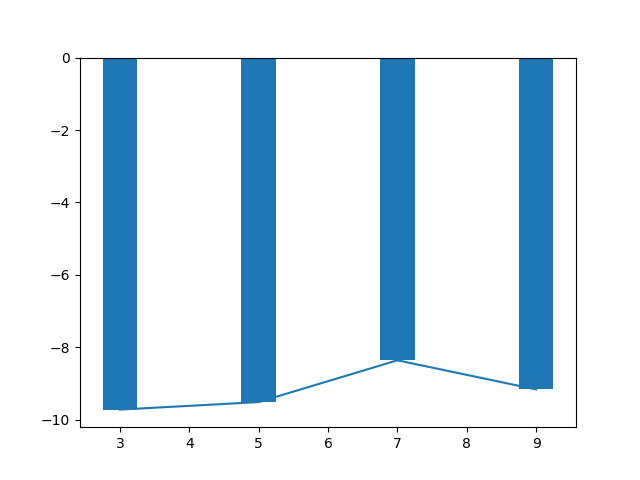
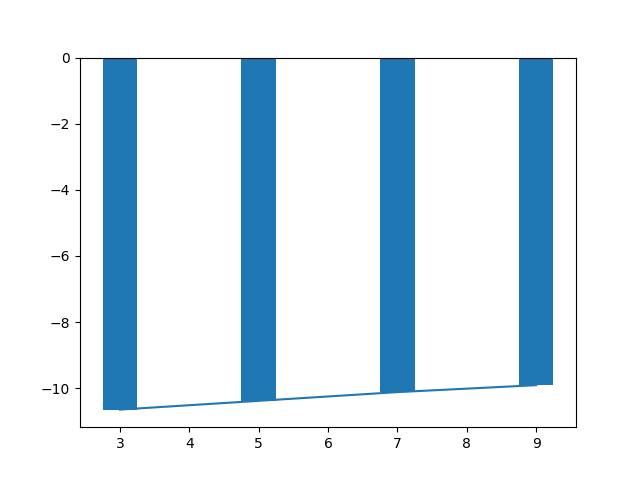
Solving redrawing on graph

diff --git a/hello.py b/hello.py
@@ -1,11 +1,21 @@
 # -*- coding: utf-8 -*-
 
-from flask import Flask, render_template, request, redirect, flash, url_for, session
+from flask import Flask, render_template, request, redirect, flash, url_for, session, send_file
+from wtforms import validators, Form, StringField
 # from flaskext.mysql import MySQL
-import csv, math, io, pandas
+import csv, math, io, pandas, numpy, base64             
+import matplotlib.pyplot as plt #Graph
+import plotly.plotly as py      #Graph
+from io import BytesIO          #Graph
 
-import json
+
 #from werkzeug.utils import secure_filename
+
+# Global vaiable to be used in graph
+pred3year = 0
+pred5year = 0
+pred7year = 0
+pred9year = 0
 
 diabeteList1 = list()
 diabeteList2 = list()
@@ -51,6 +61,37 @@ csvColumn = ['features','yearThree','yearFive','yearSeven','yearNine']
 # mysql.init_app(app)
 
 
+
+# validation check (유효성 검사)
+class MeasureForm(Form) :
+	BMI=StringField('BMI', [validators.Length(min=1)])
+	BP_HIGH=StringField('BP_HIGH', [validators.Length(min=1)])
+	BP_LWST=StringField('BP_LWST', [validators.Length(min=1)])
+	BLDS=StringField('BLDS', [validators.Length(min=1)])
+	TOT_CHOLE=StringField('TOT_CHOLE', [validators.Length(min=1)])
+	HMG=StringField('HMG', [validators.Length(min=1)])
+	SGPT_ALT=StringField('SGPT_ALT', [validators.Length(min=1)])
+	SGOT_AST=StringField('SGOT_AST', [validators.Length(min=1)])
+	GAMMA_GTP=StringField('GAMMA_GTP', [validators.Length(min=1)])
+	HCHK_PMH_CD1=StringField('HCHK_PMH_CD1', [validators.Length(min=1)])
+	HCHK_PMH_CD2=StringField('HCHK_PMH_CD2', [validators.Length(min=1)])
+	HCHK_PMH_CD3=StringField('HCHK_PMH_CD3', [validators.Length(min=1)])
+	famLIVER=StringField('famLIVER', [validators.Length(min=1)])
+	famHPRTS=StringField('famHPRTS', [validators.Length(min=1)])
+	famAPOP=StringField('famAPOP', [validators.Length(min=1)])
+	famHDISE=StringField('famHDISE', [validators.Length(min=1)])
+	famDIABML=StringField('famDIABML', [validators.Length(min=1)])
+	famCANCER=StringField('famCANCER', [validators.Length(min=1)])
+	SMK_STAT=StringField('SMK_STAT', [validators.Length(min=1)])
+	SMK_TERM=StringField('SMK_TERM', [validators.Length(min=1)])
+	DSQTY=StringField('DSQTY', [validators.Length(min=1)])
+	DRNK_HABIT=StringField('DRNK_HABIT', [validators.Length(min=1)])
+	TM1_DRKQTY=StringField('TM1_DRKQTY', [validators.Length(min=1)])
+	EXERCI=StringField('EXERCI', [validators.Length(min=1)])
+
+
+
+
 def calculateResult_Logistic():
 
 	pred_3Year = 0
@@ -71,18 +112,6 @@ def calculateResult_Logistic():
 	pred_5Year += year5List[0]
 	pred_7Year += year7List[0]
 	pred_9Year += year9List[0]
-
-	#exp Cacluation
-	exp3Year = math.exp(pred_3Year)
-	exp5Year = math.exp(pred_5Year)
-	exp7Year = math.exp(pred_7Year)
-	exp9Year = math.exp(pred_9Year)
-
-	pred_3Year = round(exp3Year/(1+exp3Year),4)
-	pred_5Year = round(exp5Year/(1+exp5Year),4)
-	pred_7Year = round(exp7Year/(1+exp7Year),4)
-	pred_9Year = round(exp9Year/(1+exp9Year),4)
-
 
 	return [pred_3Year, pred_5Year, pred_7Year, pred_9Year]
 
@@ -298,6 +327,13 @@ def measureDiabets():
 # 계산 결과 
 @app.route("/measure/result", methods=['POST'])
 def measureDiabetsResult():
+
+	# validation check (유효성 검사)
+	form = MeasureForm(request.form)
+	if not form.validate() :
+		errors = "Please enter all the fields."
+		return render_template('measure.html', errors = errors)
+
 	# 순서 중요함
 	userInputList.append(float(request.form.get('BMI')))
 	userInputList.append(float(request.form.get('BP_HIGH')))
@@ -327,17 +363,10 @@ def measureDiabetsResult():
 		pushIndexInfoToList(DRNK_QTY_Cat.index(request.form.get('TM1_DRKQTY', '')), len(DRNK_QTY_Cat))
 
 	pushIndexInfoToList(EXERCI_Cat.index(request.form.get('EXERCI', '')), len(EXERCI_Cat))
-	# validation check (유효성 검사)
 
-	# if not famLIVER or not famHPRTS or not famAPOP \
-	# 	or not famHDISE or not famDIABML or not famCANCER \
-	# 	or not [v for v in request.form.getlist('attributes[]')] :
-
-	# 	errors = "Please enter all the fields."
-
-	# 	return render_template('measure.html', errors = errors)
 
 	print(userInputList)
+
 	logisticResults = calculateResult_Logistic()
 
 	pred3year = logisticResults[0]
@@ -348,8 +377,32 @@ def measureDiabetsResult():
 	print(pred3year,pred5year,pred7year,pred9year)
 
 	del userInputList[:] #계산하고 지움.
-	#return render_template('result.html')
-	return render_template('result.html', pred3year=pred3year, pred5year=pred5year,pred7year=pred7year,pred9year=pred9year) # 임시로 최종 결과를 메인페이지 볼수 있게 처리함.
+
+	### Generating X,Y coordinaltes to be used in plot
+
+	X = [3,5,7,9]
+	Y = [pred3year,pred5year,pred7year,pred9year]
+	### Generating The Plot
+	plt.plot(X,Y)
+	barWidth=0.5
+	plt.bar(X,Y, width=barWidth, align='center') #< added align keyword
+
+	### Saving plot to disk in png format
+	plt.savefig('square_plot.png')
+
+	### Rendering Plot in Html
+	figfile = BytesIO()
+	plt.savefig(figfile, format='png')
+	plt.close()
+	figfile.seek(0)
+	figdata_png = base64.b64encode(figfile.getvalue())
+	### Remove b' from begining and ' in the end
+	### So that we can send the string within base64 noation
+	# result = str(figdata_png)[2:-1]
+	result = figdata_png
+	################################################## 
+
+	return render_template('result.html', result=result, pred3year=pred3year, pred5year=pred5year,pred7year=pred7year,pred9year=pred9year, resMLP3=0.99, resMLP5=0.99, resMLP7=0.99, resMLP9=0.99) # 임시로 최종 결과를 메인페이지 볼수 있게 처리함.
 
 
 
